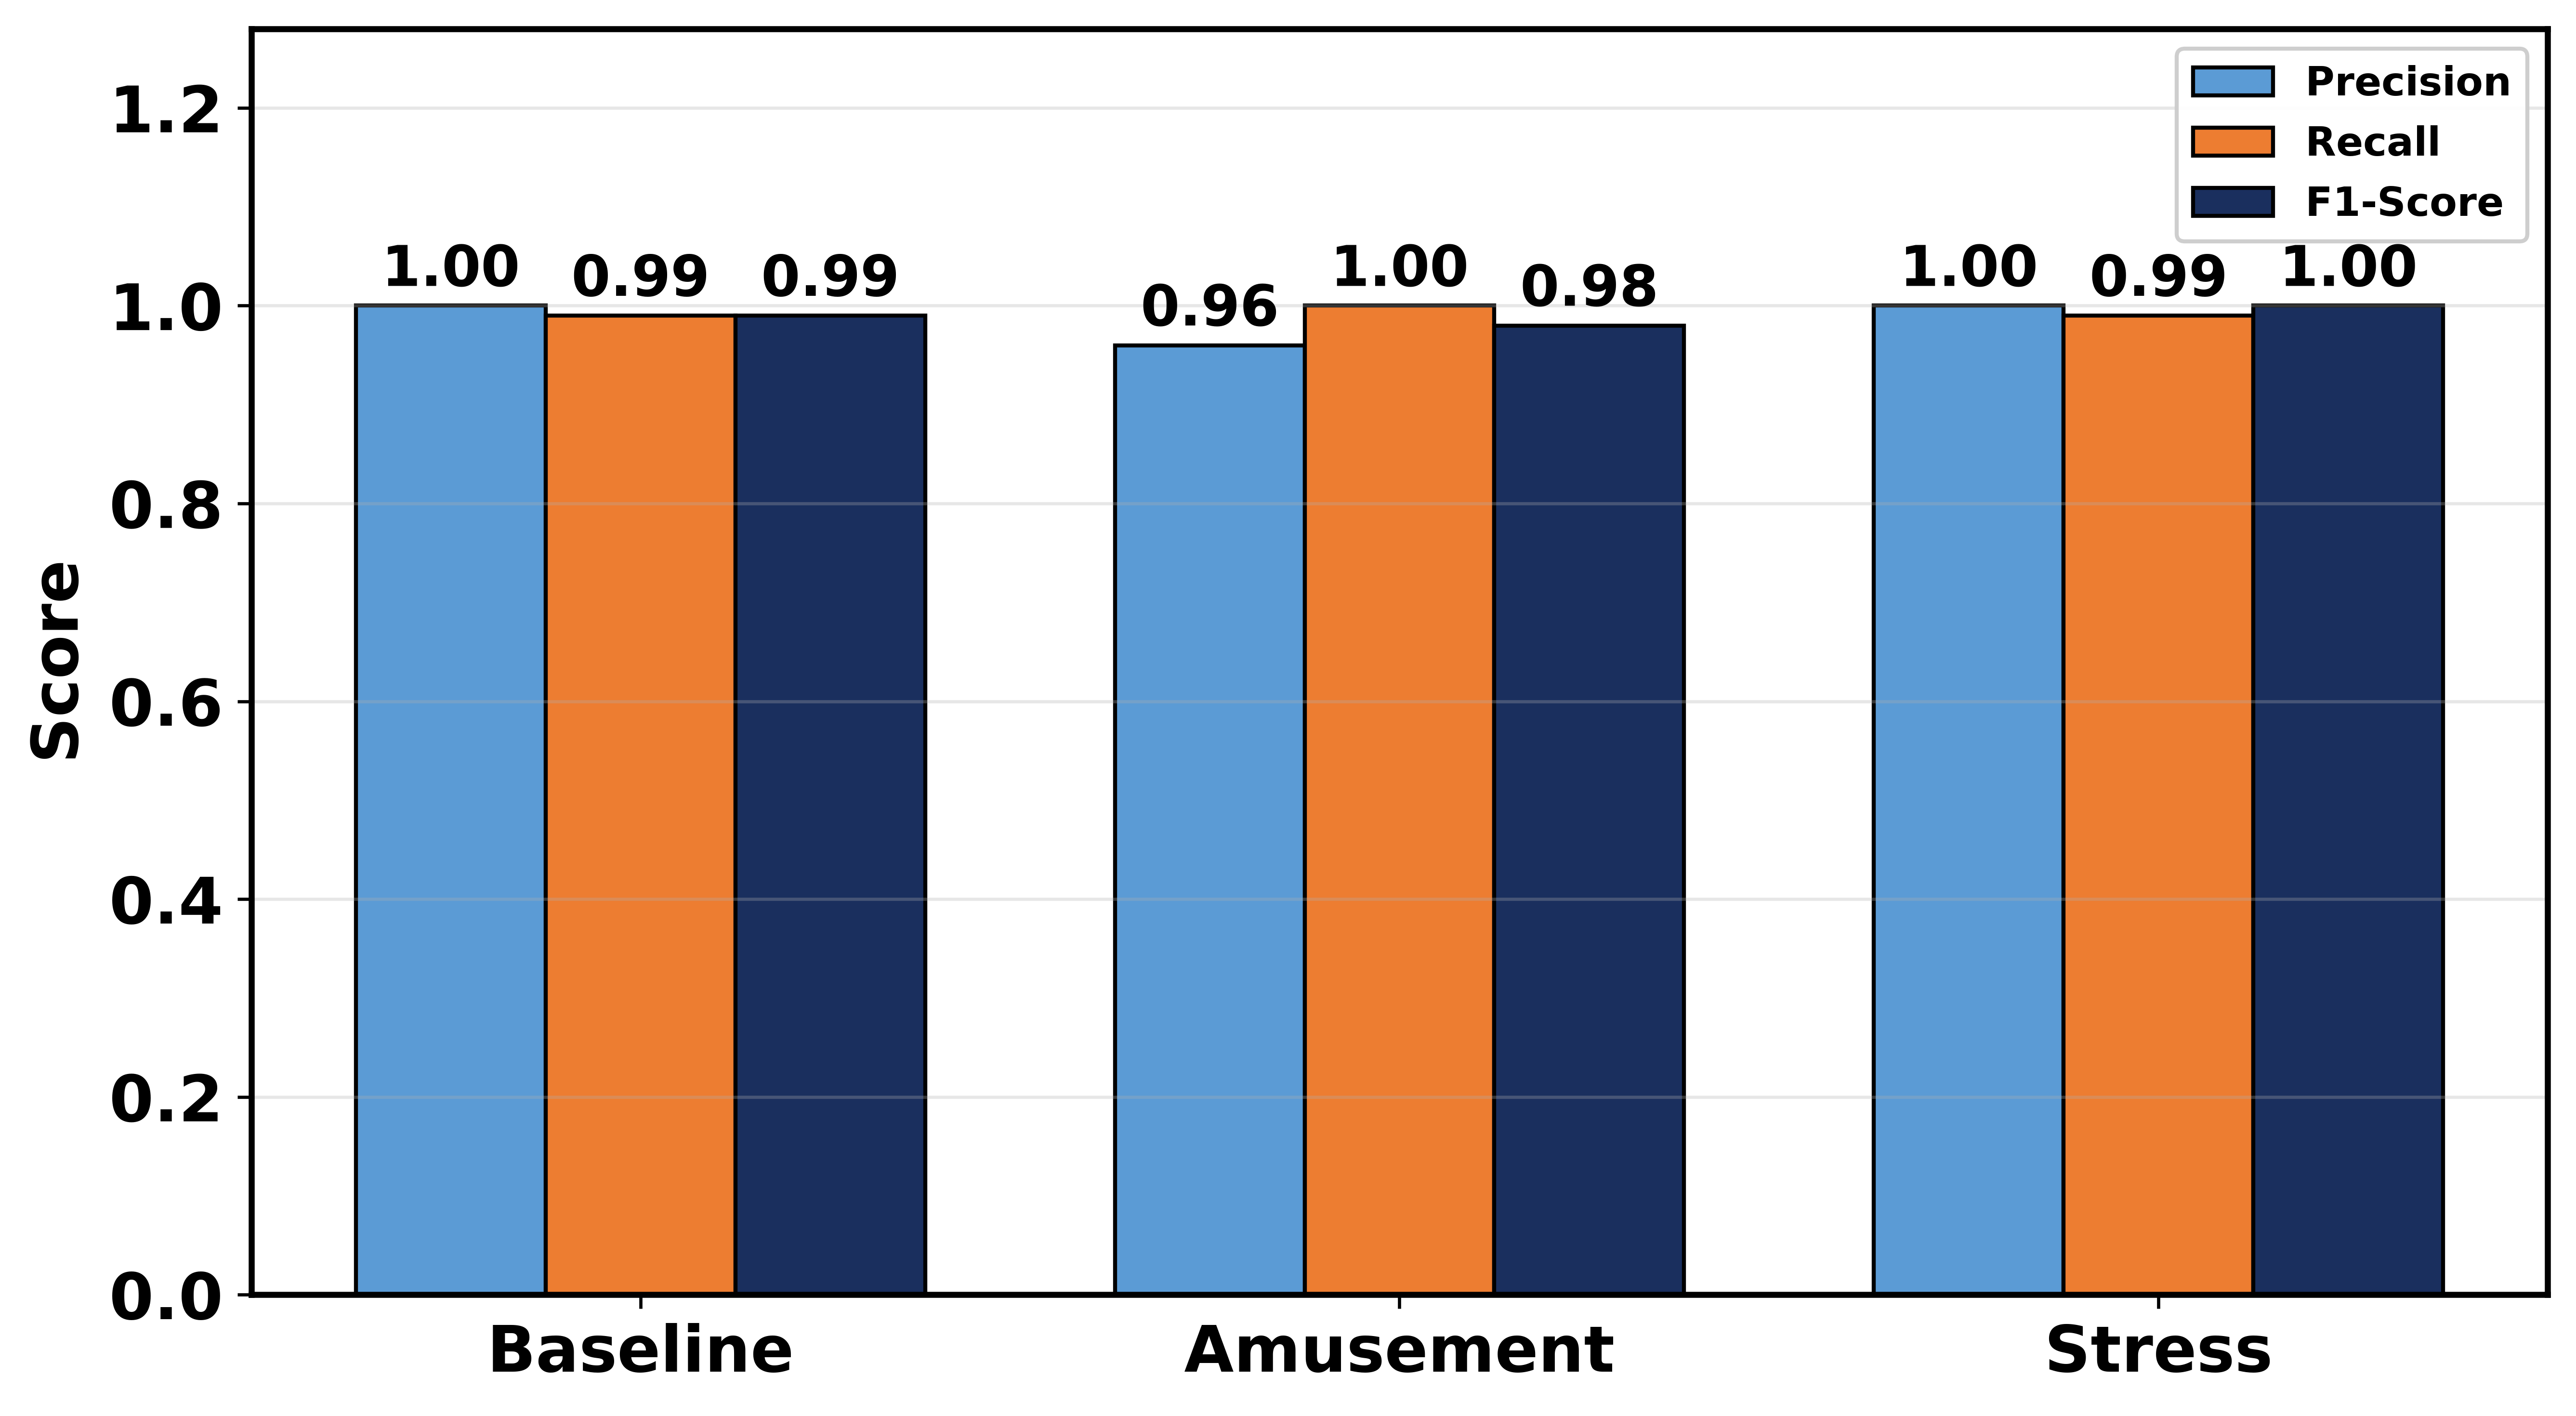
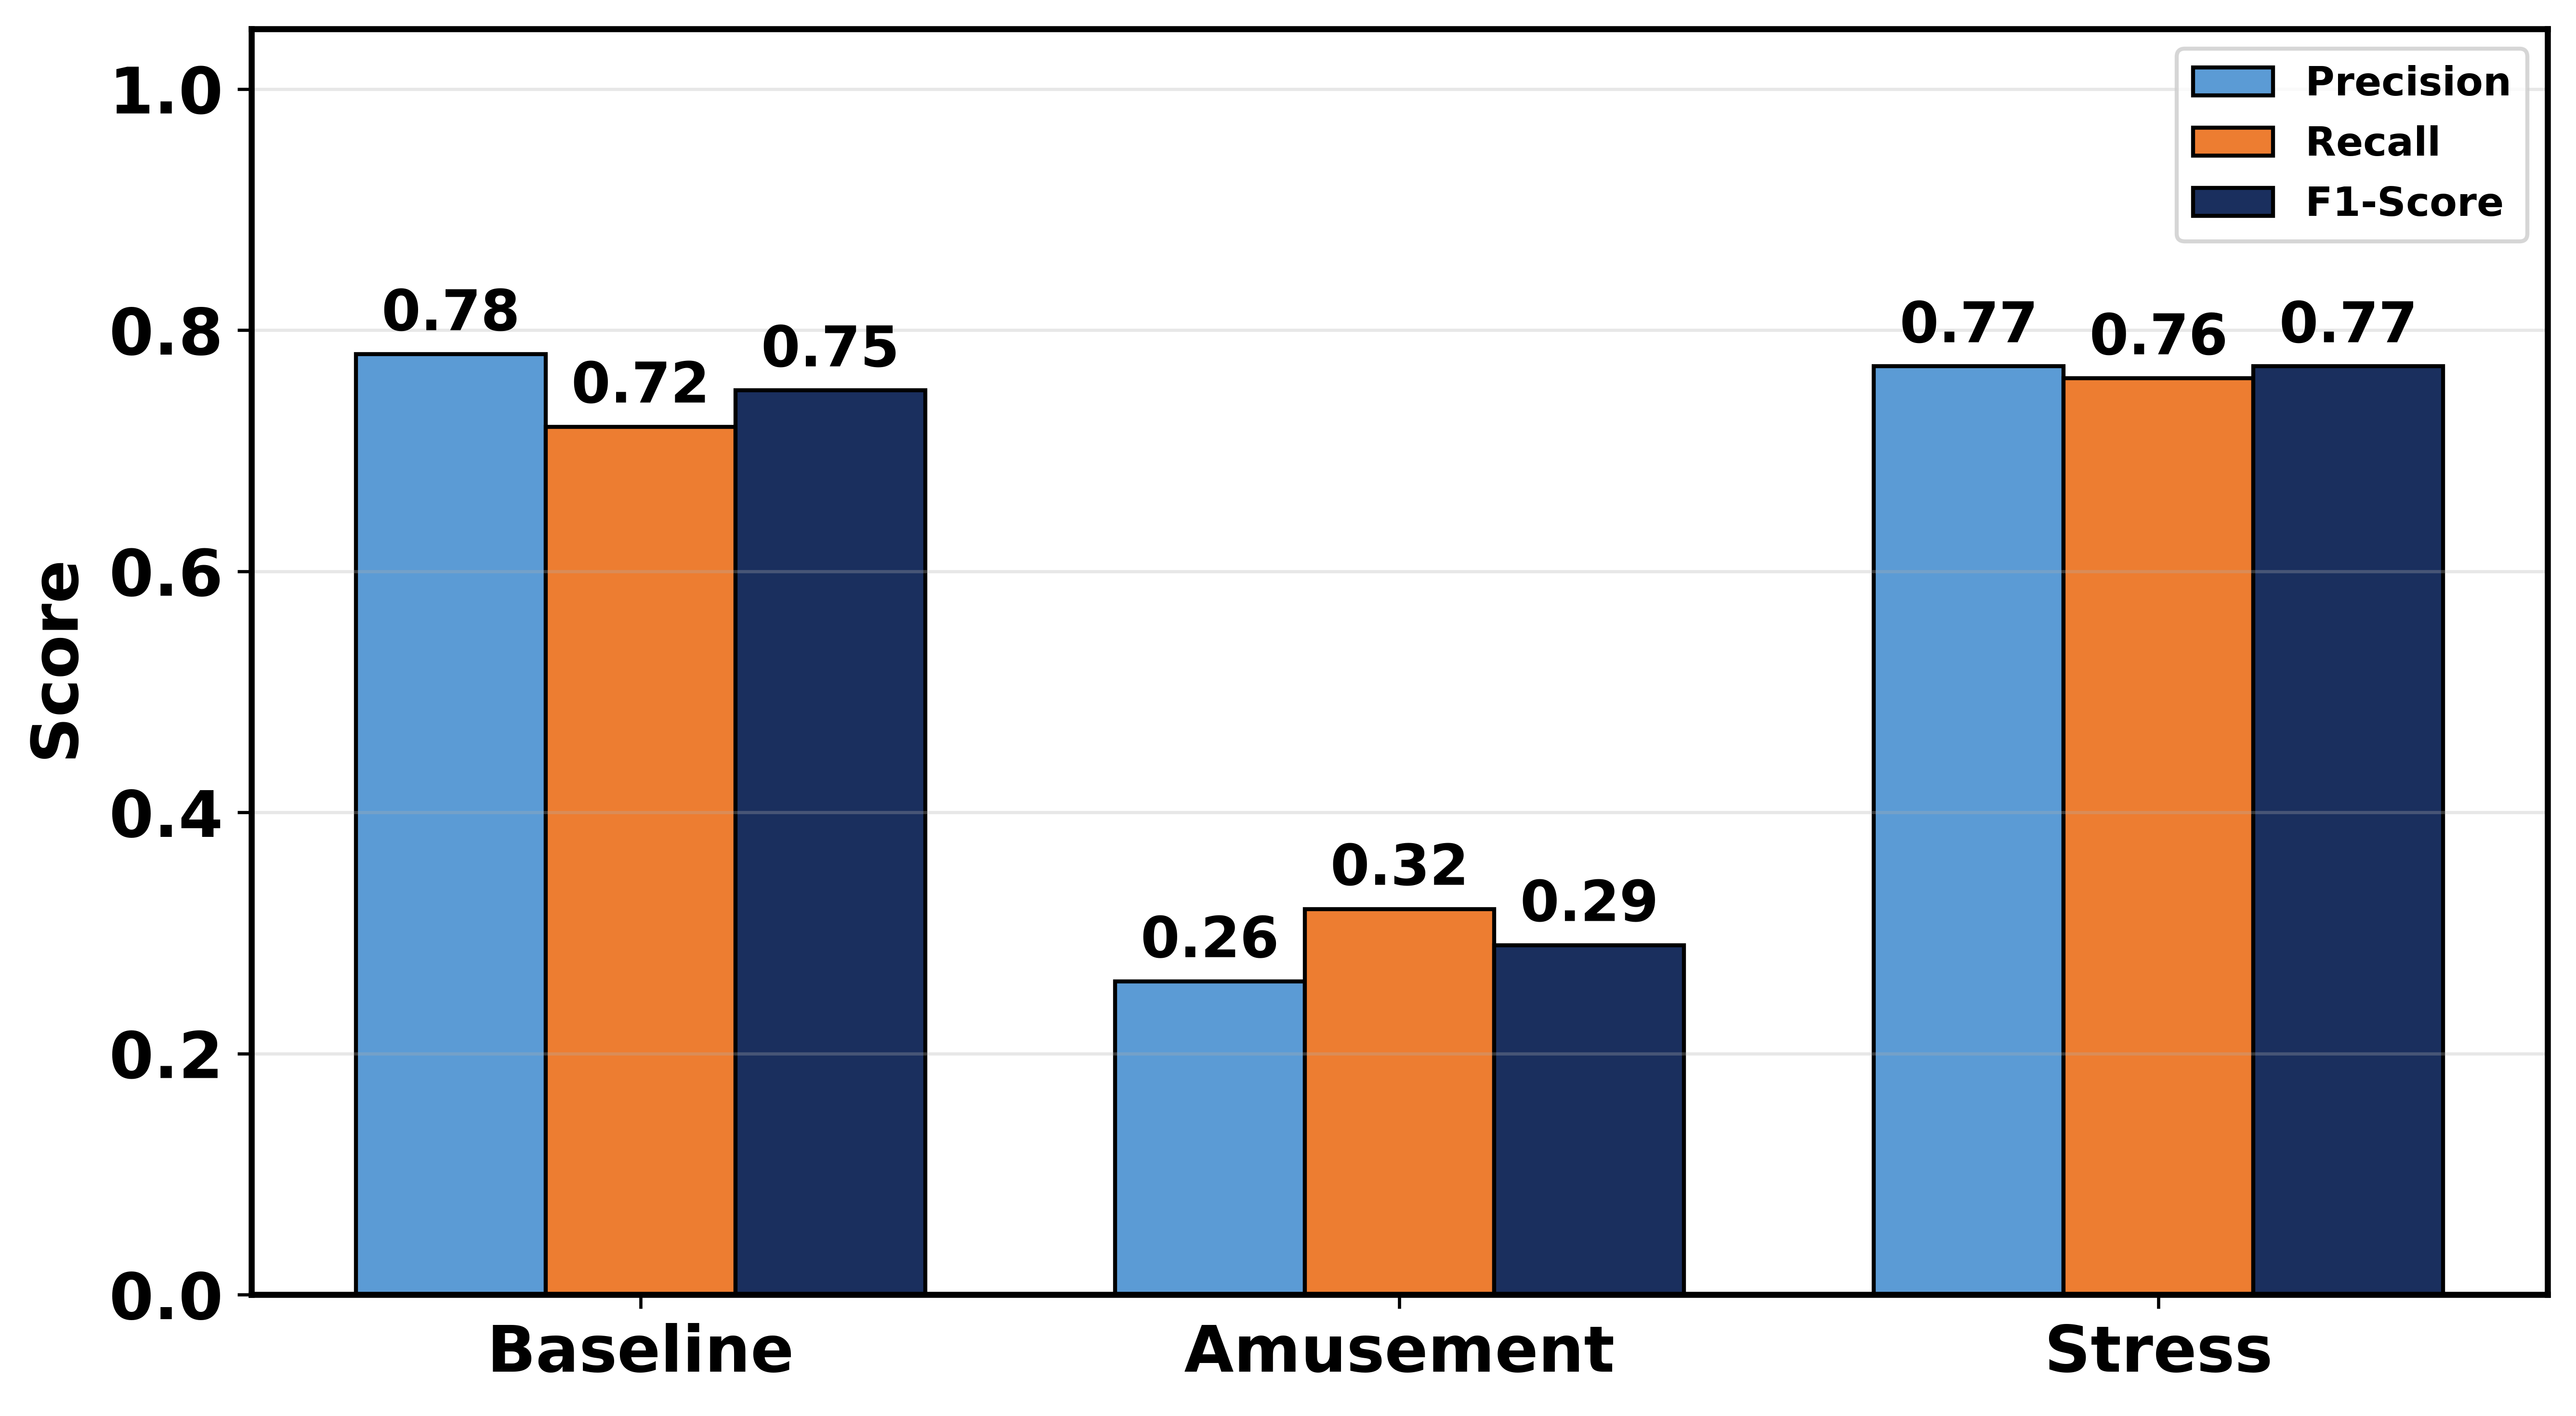
feat: updated per class F1 figure

diff --git a/scripts/generate_plots.py b/scripts/generate_plots.py
@@ -320,7 +320,15 @@ print("✓ loss_curve")
 # FIGURE 3 — Ablation Bar Chart
 # ─────────────────────────────────────────────────────────────────────────────
 variants = ["Voice Only", "Activity Only\n(HRV)", "Full Fusion\n(Proposed)"]
-f1_vals  = [0.1480, 0.9912, 0.9918]
+# f1_vals  = [0.1480, 0.9912, 0.9918] #Yeshita
+
+#Samratth's updated values
+
+variants = ["Voice Only", "Activity Only\n(HRV)", "Voice+Activity", "Full Fusion\n(Proposed)"]
+f1_vals  = [0.1480, 0.6679, 0.6779, 0.6779]
+colors   = ['#AED6F1', '#5B9BD5', '#7FB3D3', '#1A2F5E']
+
+
 colors   = ['#AED6F1', '#5B9BD5', '#1A2F5E']
 
 fig, ax = plt.subplots(figsize=(8, 5))
@@ -348,10 +356,15 @@ print("✓ ablation_bar")
 # ─────────────────────────────────────────────────────────────────────────────
 # FIGURE 4 — Per-Class Performance
 # ─────────────────────────────────────────────────────────────────────────────
+# classes   = ["Baseline", "Amusement", "Stress"]
+# precision = [1.00, 0.96, 1.00]
+# recall_v  = [0.99, 1.00, 0.99]
+# f1_per    = [0.99, 0.98, 1.00]
+
 classes   = ["Baseline", "Amusement", "Stress"]
-precision = [1.00, 0.96, 1.00]
-recall_v  = [0.99, 1.00, 0.99]
-f1_per    = [0.99, 0.98, 1.00]
+precision = [0.78, 0.26, 0.77]
+recall_v  = [0.72, 0.32, 0.76]
+f1_per    = [0.75, 0.29, 0.77]
 
 x     = np.arange(len(classes))
 width = 0.25
@@ -362,14 +375,17 @@ ax.bar(x + width, f1_per,    width, label='F1-Score',  color='#1A2F5E', edgecolo
 ax.set_xticks(x)
 ax.set_xticklabels(classes, fontsize=16, fontweight='bold')
 # ax.set_ylim(0, 1.10)
-ax.set_ylim(0, 1.28)
+# ax.set_ylim(0, 1.28)
+ax.set_ylim(0, 1.05)
 ax.set_ylabel("Score", fontsize=16, fontweight='bold')
 # ax.set_title("HDT-FM Per-Class Performance\n(Subject-Held-Out: S15–S17)",
             #  fontsize=16, fontweight='bold')
 ax.tick_params(axis='y', labelsize=16)
 # ax.legend(fontsize=16, prop={'weight':'bold'})
-ax.legend(fontsize=16, prop={'weight':'bold'}, loc='upper right',
-          borderaxespad=0.5, framealpha=0.95)
+# ax.legend(fontsize=16, prop={'weight':'bold'}, loc='upper right',
+        #   borderaxespad=0.5, framealpha=0.95)
+
+ax.legend(fontsize=16, prop={'weight':'bold'}, loc='upper right')
 ax.grid(axis='y', alpha=0.3)
 for i, (p, r, f) in enumerate(zip(precision, recall_v, f1_per)):
     ax.text(i - width, p + 0.02, f'{p:.2f}', ha='center', fontsize=14, fontweight='bold')